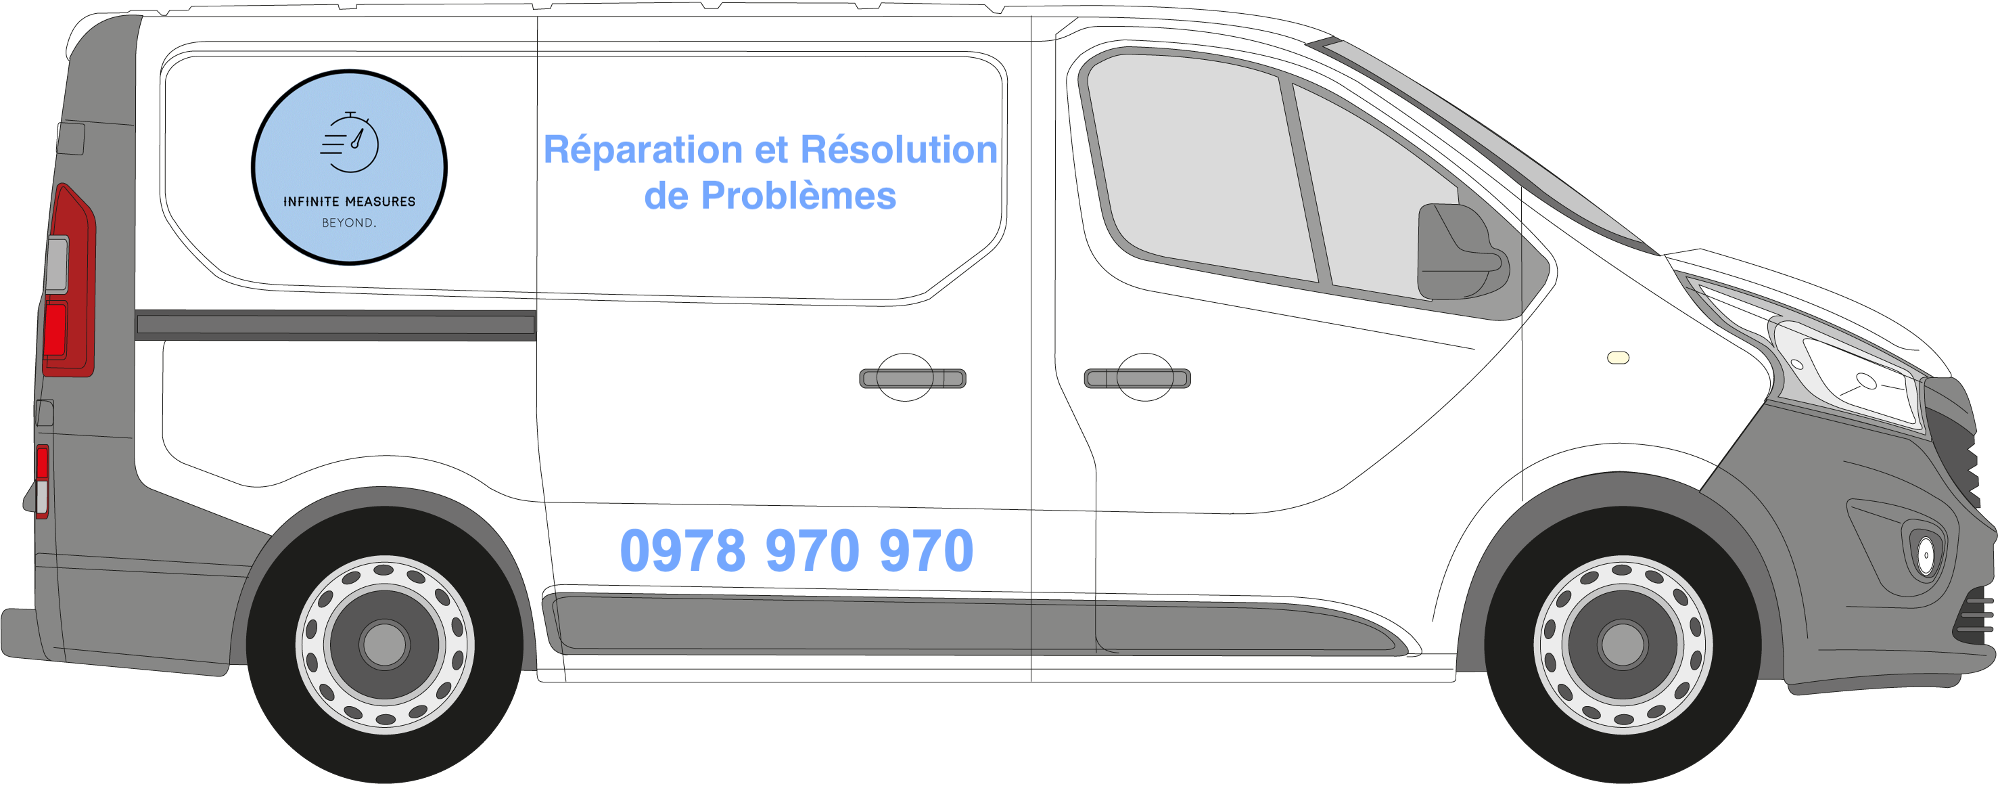
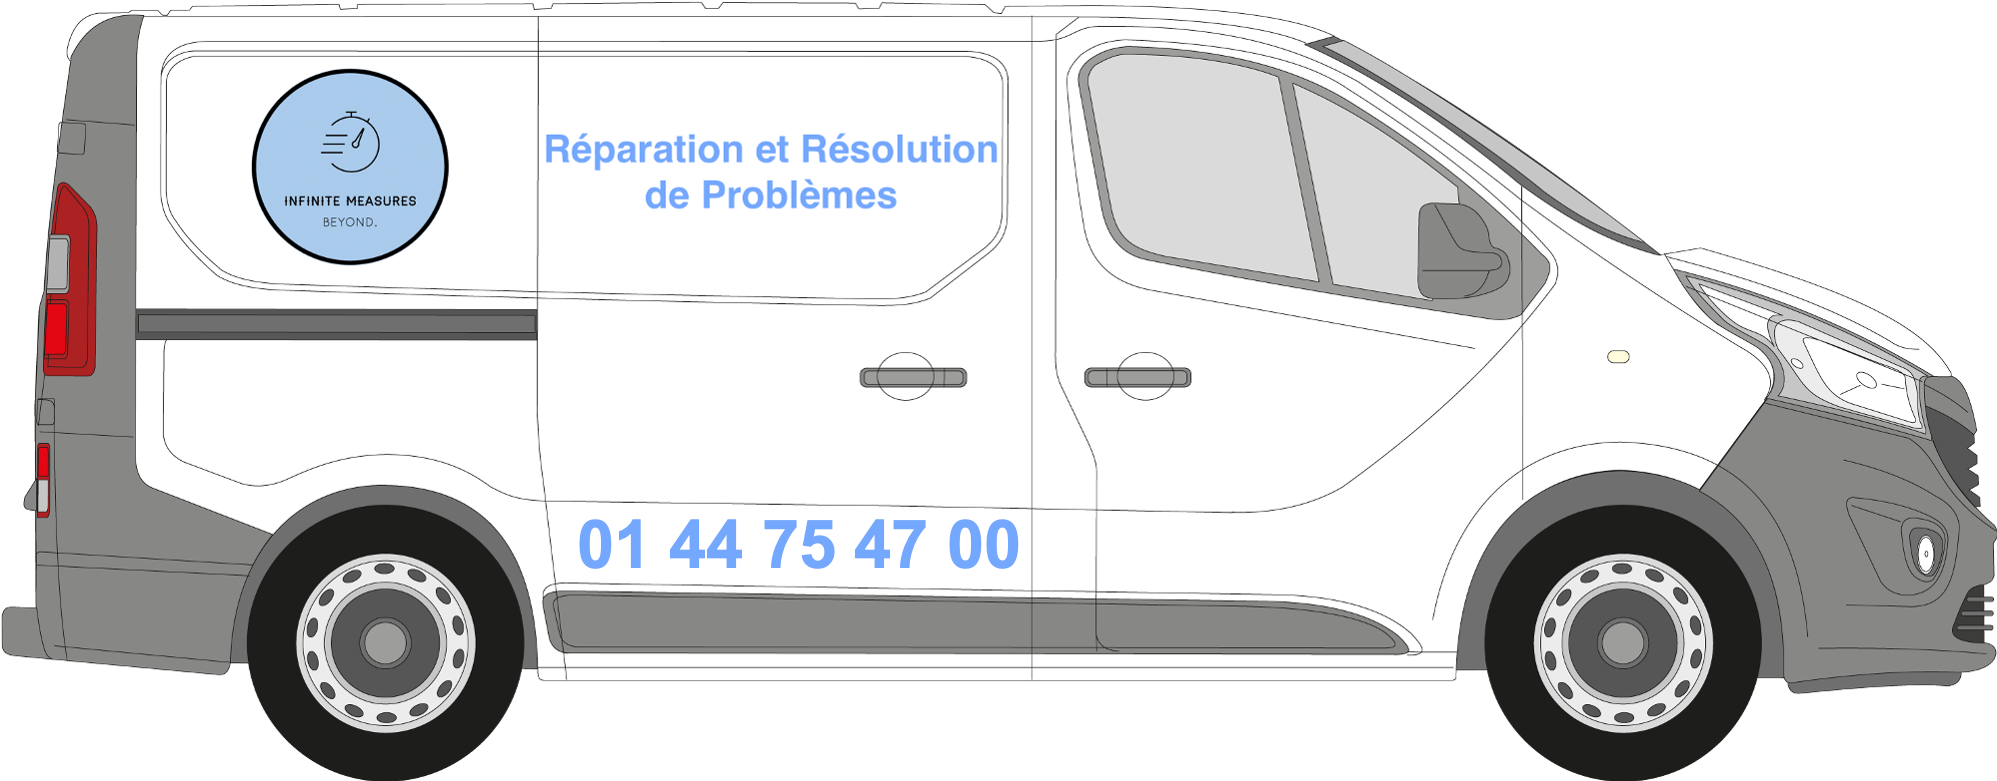
Add files via upload

diff --git a/SAV.html b/SAV.html
@@ -21,17 +21,65 @@
 </header>
 	<div id="contenuSAV">
 		<div id="titre">
-			Service Après-Vente
+			Service&nbsp;Après-Vente
         </div>
         <div class="camion_SAV">
             <img src="camionSAV.png">
             <div class="texte_SAV">
                 <p>
-                    LE SERVICE APRÈS-VENTE INFINITE&nbsp;MEASURES&nbsp;:
+                    <b><FONT color="orange">LE SERVICE APRÈS-VENTE INFINITE&nbsp;MEASURES&nbsp;:
                     <br>
-                    DES TECHNICIENS À VOTRE SERVICE
+                    DES TECHNICIENS À VOTRE SERVICE</FONT> </b>
                     <hr class="new1">
                     Vous rencontrez des problèmes avec votre appareil ? Qu'il soit sous garantie ou non, nos techniciens SAV sont à votre écoute pour vous aider à trouver une solution.
+                </p>
+            </div>
+        </div>
+        <div class="paragraphe_SAV">
+            <div class="titre_SAV">
+                LA RÉPARATION&nbsp;: UNE MAÎTRISE EXEMPLAIRE
+            </div>
+            <hr class="new1">
+            <p class="texte_paragraphe_SAV">
+                La complexité de création du Capteurator implique une manœuvre de réparation des plus difficiles. 
+                C'est pourquoi, <b>INFINITE MEASURES</b> forme des techniciens ultras-performants connaissant le moindre ressort de la machine.
+                Une seconde vie sera alors donnée à votre appareil, un geste important pour notre planète.
+            </p>
+        </div>
+        <div class="paragraphe_SAV">
+            <div class="titre_SAV">
+                CONTACTEZ&nbsp;NOUS
+            </div>
+            <hr class="new1">
+            <p class="texte_paragraphe_SAV">
+                En cas de problèmes, notre Service Après-Ventes est ouvert <b>7j/7</b> et <b>24h/24</b>. 
+                Contactez nous au <b> 01&nbsp;44&nbsp;75&nbsp;47&nbsp;00&nbsp;(prix d'un appel local)</b> ou par mail à <b>infinitemeasures.society@gmail.com</b>.
+            </p>
+        </div>
+        <div class="paragraphe_SAV">
+            <div class="titre_SAV">
+                LA GARANTIE INFINITE&nbsp;MEASURES
+            </div>
+            <hr class="new1">
+            <div class="paragraphe_block">
+                <p >
+                    Si une panne survient, vous pouvez beneficer de votre service <b>SAV&nbsp;INFINITE&nbsp;MEASURES</b> valable jusqu'à <b>10 ans</b> après votre achat.
+                    <br>
+                    Ce service comprend&nbsp;:
+                    <ul>
+                        <li>
+                            Des conseillés téléphonique <b>7j/7</b> et <b>24h/24</b>
+                        </li>
+                        <li>
+                            Des techniciens de maintenance disponibles <b>7j/7</b> de <b>5h à 23h</b>
+                        </li>
+                        <li>
+                            L'envoie et le prêt de materiels de remplacement en cas de panne.
+                        </li>
+                        <li>
+                            Échange du produit, <b>sans surcoût</b> s'il est défectueux dans les 15 jours suivant l'achat.
+                        </li>
+                    </ul>
                 </p>
             </div>
         </div>
